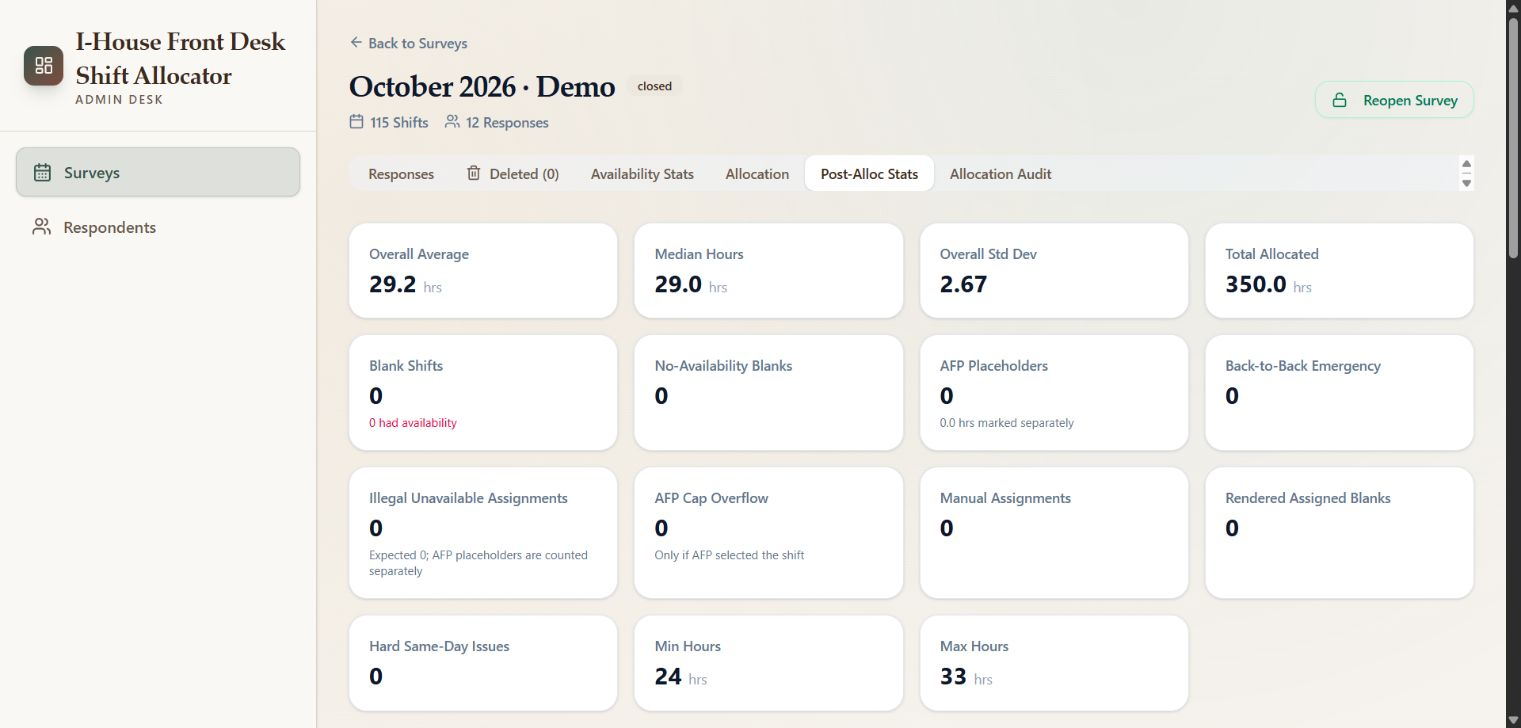
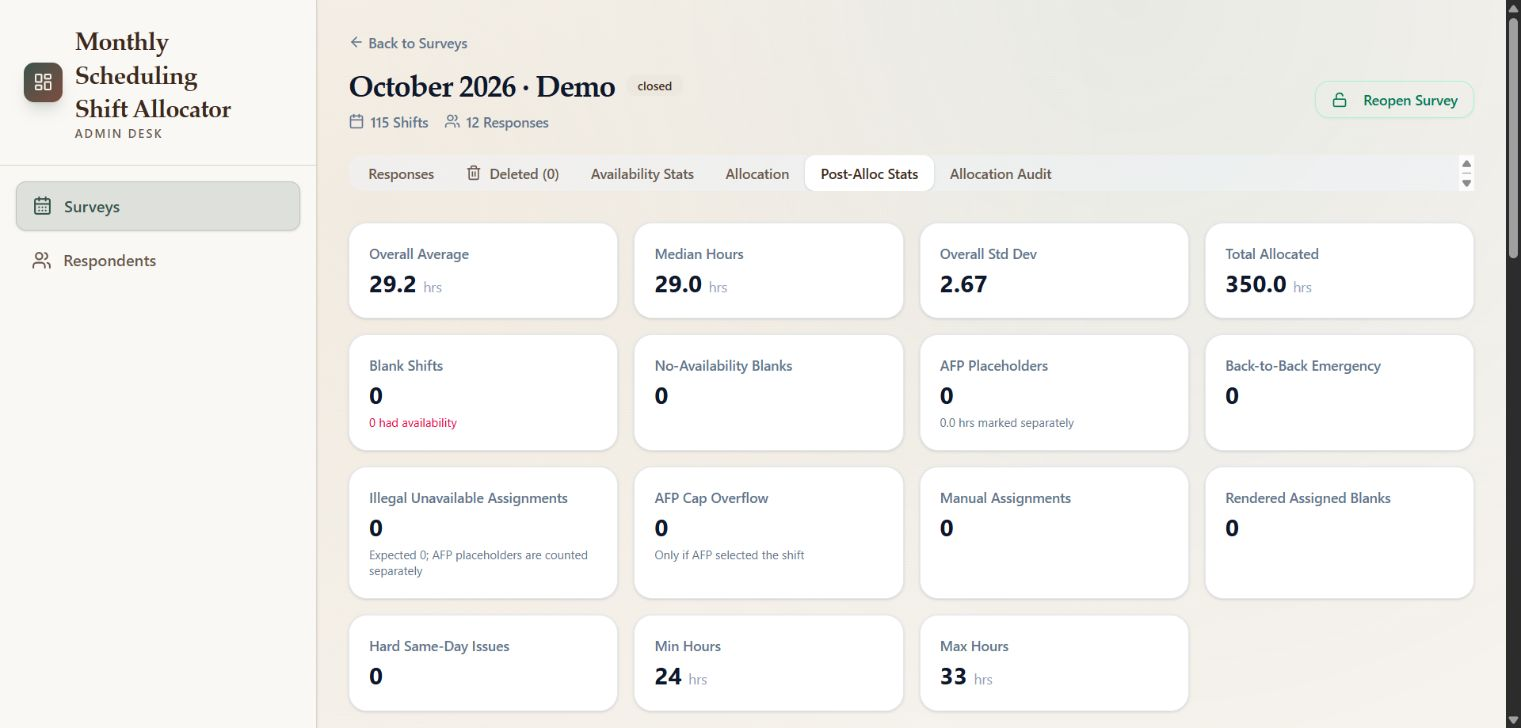
Remove organization references from README and workflow media

Changed region(s): [[0.0, 0.0302, 0.2163, 0.3626]]

diff --git a/README.md b/README.md
@@ -10,13 +10,13 @@
 
 <p align="center"><img src="docs/images/workflow.gif" alt="Animated tour: create a survey, collect availability, review responses, inspect allocations, and export the calendar" width="1000" /></p>
 
-**Shift Allocator** is an open-source scheduling application originally built for the front desk at **International Student House, Washington, DC**. The repository was previously named `ISH-Front-Desk-Allocator`. It is useful anywhere a monthly duty roster has outgrown one spreadsheet and a heroic coordinator.
+**Shift Allocator** is an open-source scheduling application for monthly duty rosters. Collect availability, balance assignments, review exceptions, and share the finished schedule in one place.
 
-The app retains its I-House theme and terminology. AFP means *Ambassador Fellow*; AFP participants can have an optional monthly hour cap. General participants and uncapped AFPs join the ordinary allocation pool. Other organizations can adapt the shift templates, category labels, and rules to their needs.
+Participants in the AFP category can have an optional monthly hour cap. General participants and uncapped AFPs join the ordinary allocation pool. Organizations can adapt the shift templates, category labels, and rules to their needs.
 
 [Features](#what-you-can-do) · [Screenshots](#a-look-inside) · [Try-the-interface](#try-the-interface-with-demo-data) · [Setup](#run-your-own-instance) · [Development](#development) · [Security](SECURITY.md)
 
-> All screenshots and the animation show the actual app running locally with fictional names and `example.com` addresses. The schedule is an illustrative fixture, not a production roster or an optimizer benchmark. The guided animation combines captured app views; no resident data is included.
+> Screenshots and the animation show the app running locally with generic documentation branding, fictional names, and `example.com` addresses. The schedule is an illustrative fixture, not a production roster or an optimizer benchmark. The guided animation combines captured app views; no real respondent data is included.
 
 ## What You Can Do
 
@@ -132,7 +132,7 @@ See [deployment details](DEPLOYMENT.md), [self-hosting with Docker and Caddy](ZE
 
 ### Existing Render Deployment
 
-`render-monthly-hosting` is the deployment branch for the existing I-House instance. `master` is the default development branch. Keep changes merged forward between them; avoid independent fixes drifting across both branches. The repository rename does not rename the existing Render service, database, or public URL. `render.yaml` has automatic deployment disabled; pushing code alone does not deploy it.
+`render-monthly-hosting` is the deployment branch. `master` is the default development branch. Keep changes merged forward between them; avoid independent fixes drifting across both branches. `render.yaml` has automatic deployment disabled; pushing code alone does not deploy it.
 
 ## Development
 
@@ -176,4 +176,4 @@ Bug fixes, clearer allocation explanations, accessibility improvements, and expo
 
 ## License
 
-Copyright (c) 2026 Ziauddin Sherkar. Released under the [MIT License](LICENSE), provided **as is**, without warranty. Please sanity-check the schedule before sending it to everyone.
+Released under the [MIT License](LICENSE), provided **as is**, without warranty. Please sanity-check the schedule before sending it to everyone.

diff --git a/docs/media.md b/docs/media.md
@@ -2,7 +2,7 @@
 
 The images in `images/` were captured on 19 September 2026 from the actual React app built from this repository. They use the read-only fixtures in `scripts/docs-demo.mjs`, not the production service or database. All people are fictional and all email addresses use `example.com`.
 
-The fixture's October 2026 schedule is deterministic and illustrative. It does not run the optimizer and must not be used as evidence of optimizer quality, fairness, or production usage. The app retains its I-House branding and rules even though the repository is now called Shift Allocator.
+The fixture's October 2026 schedule is deterministic and illustrative. It does not run the optimizer and must not be used as evidence of optimizer quality, fairness, or production usage. The preview substitutes generic organization labels in the locally served frontend bundle for documentation captures. Production branding and application behavior are unchanged.
 
 ## Capture the App
 
@@ -27,7 +27,9 @@ Capture the rendered UI after it has loaded:
 | `allocation-audit.png` | Survey detail → Allocation Audit |
 | `calendar.png` | Survey detail → Allocation → Show Calendar → Download PNG |
 
-The original browser captures are roughly 1536 × 735 pixels. `calendar.png` is the app's own PNG export, reduced to 1252 × 1962 pixels for the README; it includes the entire month. Other captures preserve the visible interface without replacing labels or results. Different browser dimensions can be used for future captures; the GIF assembler preserves aspect ratio.
+The original browser captures are roughly 1536 × 735 pixels. `calendar.png` is the app's own PNG export, reduced to 1252 × 1962 pixels for the README; it includes the entire month. Other captures show the rendered interface with the generic documentation branding described above. Different browser dimensions can be used for future captures; the GIF assembler preserves aspect ratio.
+
+The README privacy check covered its text, all eight source screenshots, the generated GIF/poster, and image metadata. Displayed participant names match the invented fixture list, email addresses use `example.com`, and the calendar uses the same synthetic assignments. No real respondent records, private contact details, credentials, or identifying image metadata were found. The repository owner's public GitHub handle remains in the clone URL; copyright attribution remains in `LICENSE`.
 
 ## Rebuild the Animation
 
